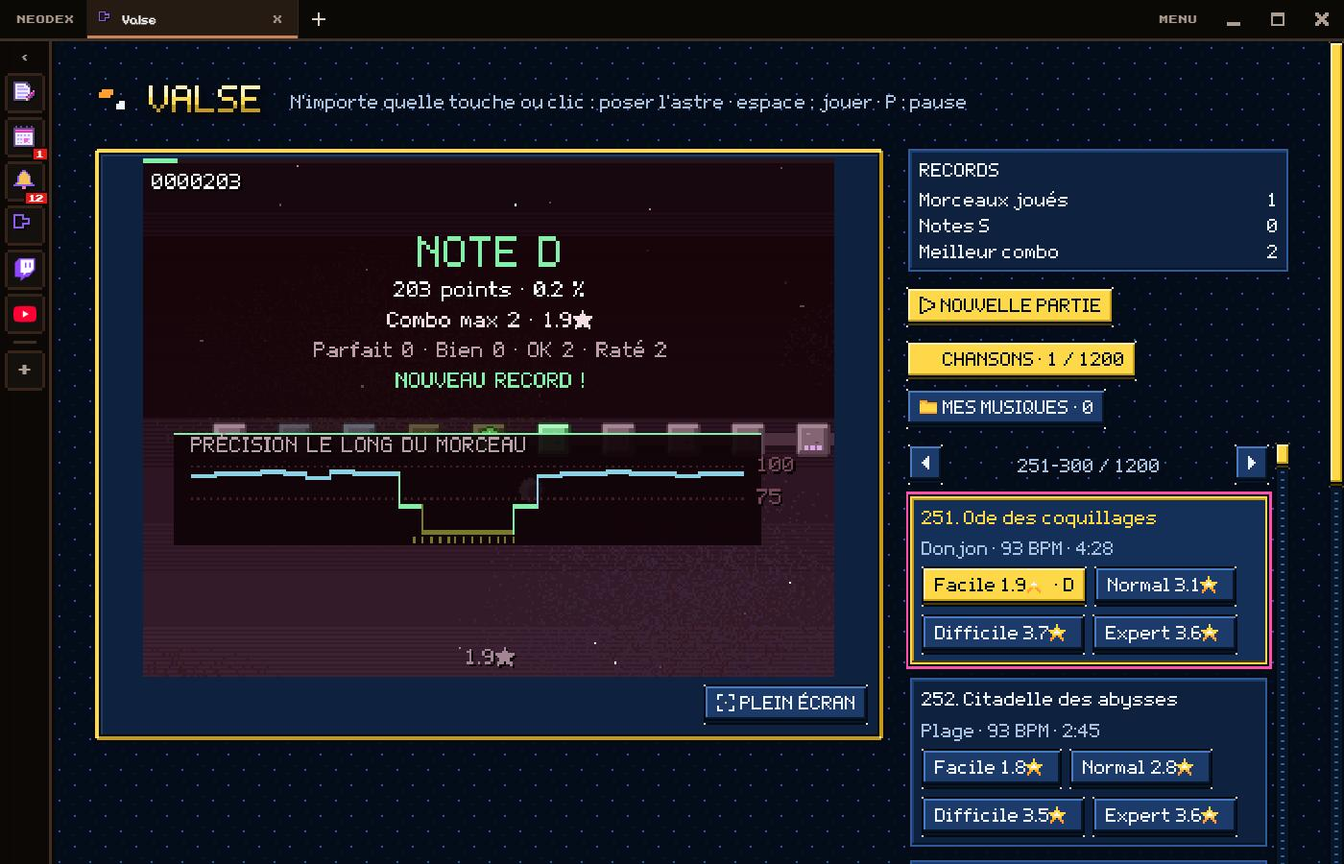
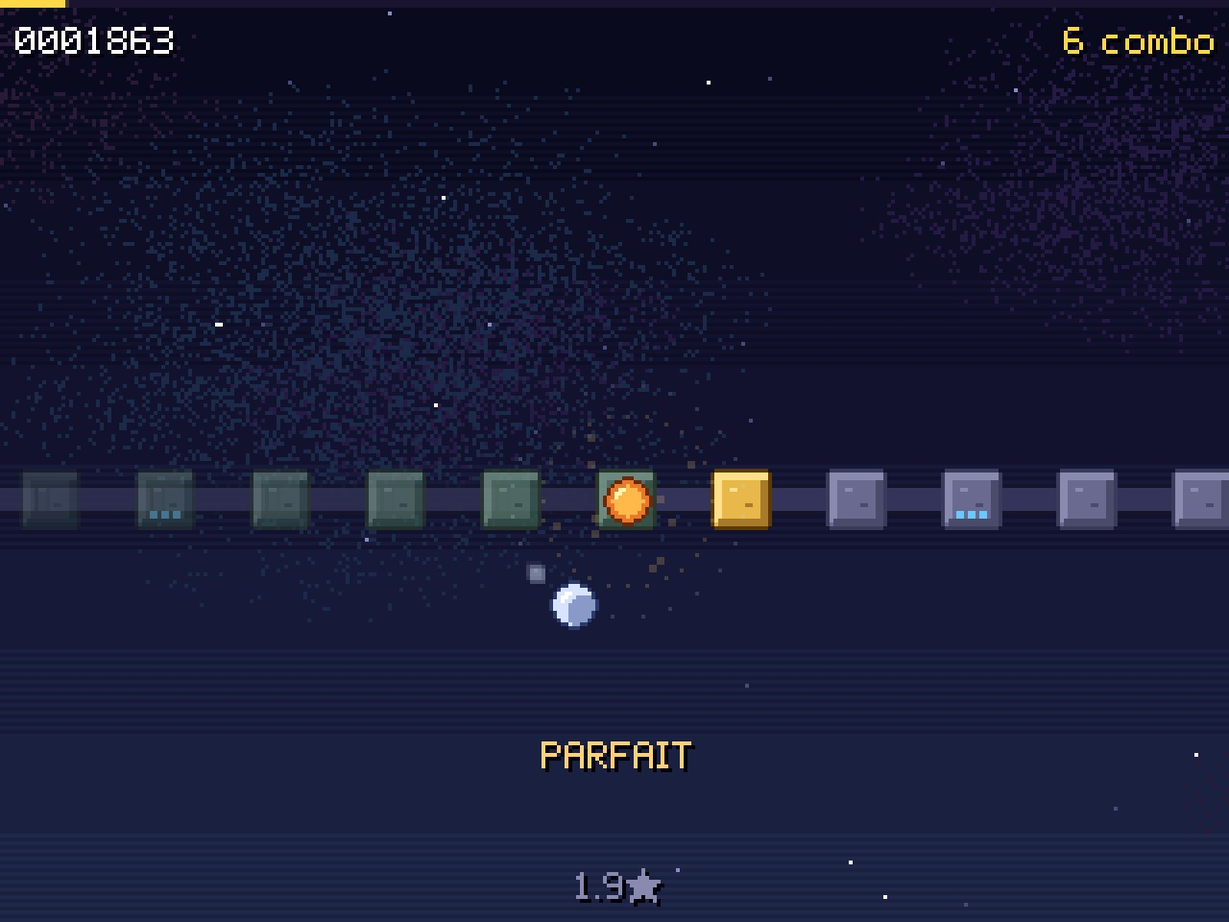
Version 2.0.0 : jugement strict (trop tôt ou trop tard, la partie est perdue), drapeaux de reprise toutes les 32 dalles, plus d’effets de caméra ni de ciel qui bouge

diff --git a/index.js b/index.js
@@ -9,7 +9,7 @@ const HTML = `<div class="appWrap wide">
       <div class="row"><button class="btn" id="rhTabSongs">CHANSONS</button><button class="btn" id="rhTabMine">MES MUSIQUES</button></div>
       <div class="sysCard rhImport" id="rhImport" style="display:none"><div class="row"><button class="btn main" id="rhFileBtn">IMPORTER UN FICHIER AUDIO</button><input type="file" id="rhFile" accept="audio/*,.mp3,.m4a,.ogg,.opus,.wav,.flac,.webm" hidden></div><div class="row"><select class="f" id="rhMuList"></select><button class="btn" id="rhMuBtn">CRÉER LE NIVEAU</button></div><div class="row"><label>Difficulté <select class="f" id="rhStars"><option value="1">1 ★</option><option value="2">2 ★</option><option value="3" selected>3 ★</option><option value="4">4 ★</option><option value="5">5 ★</option><option value="6">6 ★</option><option value="7">7 ★</option><option value="8">8 ★</option><option value="9">9 ★</option><option value="10">10 ★</option></select></label></div><span class="hint" id="rhImpMsg">Un fichier ou une musique de NeoMusic : le jeu trouve son tempo et ses temps forts et en fait un niveau.</span></div>
       <div id="rhSongs"></div>
-      <div class="sysCard rhOpts"><label>Volume <input type="range" id="rhVol" min="0" max="100" value="70"></label><label>Son des clics <select class="f gSel" id="rhClick"><option value="0" selected>Doux</option><option value="1">Clap</option><option value="2">Bois</option><option value="3">Grosse caisse</option><option value="4">Cristal</option><option value="5">Pop</option><option value="6">Charleston</option><option value="7">Caisse claire</option><option value="8">Pluck</option><option value="9">Tok</option><option value="-1">Aucun</option></select></label><label title="Zooms et rotations de la caméra pendant le morceau">Caméra <select class="f gSel" id="vaCamOn"><option value="1" selected>Effets</option><option value="0">Fixe</option></select></label><label title="Entraînement : commencer plus loin dans le morceau (sans record)">Départ <select class="f gSel" id="vaFrom"><option value="0" selected>Début</option><option value="0.25">25 %</option><option value="0.5">50 %</option><option value="0.75">75 %</option></select></label><label>Décalage <input type="number" class="f" id="rhOffset" min="-300" max="300" step="5" value="0" style="width:80px" title="Réglé tout seul après chaque partie"> ms</label></div>
+      <div class="sysCard rhOpts"><label>Volume <input type="range" id="rhVol" min="0" max="100" value="70"></label><label>Son des clics <select class="f gSel" id="rhClick"><option value="0" selected>Doux</option><option value="1">Clap</option><option value="2">Bois</option><option value="3">Grosse caisse</option><option value="4">Cristal</option><option value="5">Pop</option><option value="6">Charleston</option><option value="7">Caisse claire</option><option value="8">Pluck</option><option value="9">Tok</option><option value="-1">Aucun</option></select></label><label title="Entraînement : commencer plus loin dans le morceau (sans record)">Départ <select class="f gSel" id="vaFrom"><option value="0" selected>Début</option><option value="0.25">25 %</option><option value="0.5">50 %</option><option value="0.75">75 %</option></select></label><label>Décalage <input type="number" class="f" id="rhOffset" min="-300" max="300" step="5" value="0" style="width:80px" title="Réglé tout seul après chaque partie"> ms</label></div>
       <div class="hint">Le soleil et la lune tournent l'un autour de l'autre. Quand celui qui tourne touche la dalle suivante (la dorée), appuie sur n'importe quelle touche ou clique : il se pose, et c'est l'autre qui tourne.</div><div class="hint">Le chemin suit le rythme : une ligne droite (un demi-tour) dure un temps, un virage à angle droit (un quart de tour) un demi-temps, un virage serré encore moins. Trois points bleus sur une dalle : l'astre y tourne plus lentement ; une boucle rose : il change de sens.</div><div class="hint">La difficulté de chaque niveau est calculée sur ses notes (densité, passages chargés) : de 1★ à 10★.</div>
     </div></div>
 </div>`;
@@ -1058,13 +1058,13 @@ $('rhFs').onclick = () => { rhFull(!document.fullscreenElement); $('rhFs').blur(
 $('rhOffset').addEventListener('change', () => { rhOffMs = +$('rhOffset').value; });
 $('rhClick').onchange = () => { rhAudio(); rhCtx.resume(); rhClick(); };  // le son choisi, pour l'entendre
 $('rhVol').oninput = () => { if (rhOut) rhOut.gain.value = +$('rhVol').value / 100 * .6; };
-for (const id of ['rhVol', 'rhClick', 'rhOffset', 'vaCamOn', 'vaFrom']) $(id).addEventListener('change', () => { gstore('rhythmPrefs', {})[id] = $(id).value; saveGames(); });
+for (const id of ['rhVol', 'rhClick', 'rhOffset', 'vaFrom']) $(id).addEventListener('change', () => { gstore('rhythmPrefs', {})[id] = $(id).value; saveGames(); });
 setInterval(() => { if (rhCtx?.state === 'running' && (!view.classList.contains('on') || rh?.mode !== 'play')) rhCtx.suspend(); }, 200);  // la musique s'arrête avec la partie
 document.addEventListener('fullscreenchange', () => { if (!document.fullscreenElement) rhPause(); });  // Échap sort du plein écran : on met en pause
 $('gNew').onclick = () => { if (rh) rhSelect(rh.song, rh.diff); $('gNew').blur(); };
 function rhInfo() { const res = games.rhythm || {}, all = Object.values(res); showStats([['Morceaux joués', all.length], ['Notes S', all.filter(r => r.grade === 'S').length], ['Meilleur combo', all.reduce((m, r) => Math.max(m, r.combo || 0), 0)]]); }
 function rhOpen() {
-  const p = games.rhythmPrefs || {}; for (const id of ['rhVol', 'rhClick', 'rhOffset', 'vaCamOn', 'vaFrom']) if (p[id] != null) $(id).value = p[id];
+  const p = games.rhythmPrefs || {}; for (const id of ['rhVol', 'rhClick', 'rhOffset', 'vaFrom']) if (p[id] != null) $(id).value = p[id];
   rhOffMs = +$('rhOffset').value; rhInfo();
   if (rh) { rhList(); return gameLoop(rh, RHG.key, RHG.update, rhDrawAll); }
   const last = games.rhythmLast || {song: 0, diff: 'normal'}; rhSelect(last.song, last.diff).catch(() => rhSelect(0, 'normal'));
@@ -1074,7 +1074,7 @@ function rhOpen() {
    l'astre qui tourne se pose, l'autre se met à tourner. Le chemin est dessiné par la musique : un demi-tour = un temps, un quart de tour = un demi-temps. ---------- */
 const VA = {R: 30, SPIN: Math.PI, MIN: .25};  // SPIN : radians par temps ; MIN : écart minimum entre deux notes, en temps
 const RHG = {key: 'valse', factor: 1.15, color: '#ffd84a',
-  help: [['Une touche (ou un clic) quand l\'astre touche la dalle suivante', '#ffe8b0'], ['Demi-tour = un temps · quart de tour = un demi-temps', '#d8e0ff'], ['Le chemin suit la musique : regarde ses virages', '#d8e0ff']],
+  help: [['Une touche (ou un clic) quand l\'astre touche la dalle dorée', '#ffe8b0'], ['Demi-tour = un temps · quart de tour = un demi-temps', '#d8e0ff'], ['Trop tôt ou trop tard : perdu !', '#ff9aa8']],
   // une seule touche : les notes ensemble n'en font qu'une, les notes trop rapprochées (moins d'un quart de temps) sont retirées ;
   // puis le chemin : chaque dalle est là où l'astre qui tourne arrive au moment de la note
   chart(base, c) {
@@ -1083,12 +1083,12 @@ const RHG = {key: 'valse', factor: 1.15, color: '#ffd84a',
     vaPath(out, beat);
     return out;
   },
-  reset() { Object.assign(rh, {judge: null, cam: null, flash: [], trail: [], tap: -99, from: 0, pct: 0, camfx: vaVal('vaCamOn', '1') === '1' ? vaCamFx(rh.info, rh.c.len, (rh.c.step || .125) * 4) : null}); },
+  reset() { Object.assign(rh, {judge: null, cam: null, flash: [], trail: [], tap: -99, from: 0, pct: 0, cp: 0, last: -9, failed: '', failAt: 0}); },
   from: () => vaFrom(),
   over() { vaOver(); },
   update() {
     const now = rhNow();
-    for (const n of rh.notes) { if (n.judged) continue; if (n.t - now > .2) break; if (now - n.t > RH.WIN.at(-1)[0]) { rhMissed(n); vaFx(n, null); } }
+    for (const n of rh.notes) { if (n.judged) continue; if (n.t - now > .2) break; if (now - n.t > RH.WIN.at(-1)[0]) { vaFail(n, 'TROP TARD'); return; } }
     for (const s of rh.sparks) { s.x += s.vx; s.y += s.vy; s.vx *= .94; s.vy *= .94; s.life--; } rh.sparks = rh.sparks.filter(s => s.life > 0);
     for (const f of rh.fx) f.t++; rh.fx = rh.fx.filter(f => f.t < 24);
     if (rh.judge && --rh.judge.t <= 0) rh.judge = null;
@@ -1133,35 +1133,14 @@ function vaPos(t) {
   const n = N[i], ang = n.a + n.dir * n.w * (n.t - t);
   return {x: n.px, y: n.py, ox: n.px + Math.cos(ang) * VA.R, oy: n.py + Math.sin(ang) * VA.R, i};
 }
-/* ---------- 1.3.0 : effets de caméra, entraînement depuis n'importe quel passage, record « sans faute », la figure dessinée par le chemin ---------- */
+/* ---------- 1.3.0 : entraînement depuis n'importe quel passage, record « sans faute », la figure dessinée par le chemin ---------- */
 const vaVal = (id, d) => { const v = $(id)?.value; return v == null || v === '' ? d : v; };
-const VA_FX = ['', 'zoom', 'large', 'tourne', 'balance', 'pouls'];
-function vaCamFx(info, len, beat) {  // toutes les 8 mesures, un effet de caméra tiré d'après le morceau (le premier passage reste calme)
-  const sec = 32 * beat, r = seeded(info.name.length * 71 + Math.round(info.bpm * 3)), L = [''];
-  for (let k = 1; k * sec < len + sec; k++) { let e; do e = VA_FX[Math.floor(r() * VA_FX.length)]; while (e === L.at(-1)); L.push(e); }
-  return {sec, beat, L};
-}
-function vaCamAt(e, u, k, C) {  // -> [échelle, rotation] de l'effet e, u secondes après le début de son passage
-  if (e === 'zoom') return [1.35, 0];
-  if (e === 'large') return [.72, 0];
-  if (e === 'tourne') return [1, Math.min(1, u / C.sec) * .6 * (k % 2 ? 1 : -1)];
-  if (e === 'balance') return [1, Math.sin(u / C.beat * Math.PI / 2) * .12];
-  if (e === 'pouls') return [1 + .08 * Math.max(0, 1 - (u / C.beat % 1) * 4), 0];
-  return [1, 0];
-}
-function vaCam(now) {  // l'effet du moment, en fondu d'un temps depuis le précédent
-  const C = rh.camfx; if (!C || now <= 0) return [1, 0];
-  const k = Math.min(C.L.length - 1, Math.floor(now / C.sec)), u = now - k * C.sec, b = vaCamAt(C.L[k], u, k, C);
-  if (!k || u >= C.beat) return b;
-  const a = vaCamAt(C.L[k - 1], C.sec, k - 1, C), m = (x => x * x * (3 - 2 * x))(u / C.beat);
-  return [a[0] + (b[0] - a[0]) * m, a[1] + (b[1] - a[1]) * m];
-}
-{ const C = vaCamFx({name: 'essai', bpm: 120}, 120, .5); console.assert(C.L[0] === '' && C.L.length > 6 && C.L.every((e, i) => !i || e !== C.L[i - 1]), 'vaCamFx'); }
-function vaCamPush(now) { const [s, r] = vaCam(now); g.save(); if (s !== 1 || r) { g.translate(W / 2, H / 2 + 10); g.rotate(r); g.scale(s, s); g.translate(-W / 2, -(H / 2 + 10)); } }
 // l'entraînement : la partie commence un peu avant la dalle choisie ; les notes d'avant ne comptent pas, et rien n'est enregistré comme record
+let vaResume = null;  // {key, i} : reprendre au drapeau i après une partie perdue
 function vaFrom() {
-  const f = +vaVal('vaFrom', 0), N = rh.notes; if (!f || N.length < 8) return 0;
-  const i = Math.min(N.length - 1, Math.floor(N.length * f)), T = Math.max(0, N[i].t - 2);
+  const f = +vaVal('vaFrom', 0), N = rh.notes, R = vaResume?.key === rh.info.key ? vaResume.i : 0; vaResume = null;
+  if ((!f && !R) || N.length < 8) return 0;
+  const i = R || Math.min(N.length - 1, Math.floor(N.length * f)), T = Math.max(0, N[i].t - 2); rh.cp = i;
   for (let j = 0; j < i; j++) { N[j].judged = true; N[j].off = true; } rh.from = T; return T;
 }
 // le record « sans faute » : la part du morceau jouée avant le premier raté
@@ -1182,12 +1161,26 @@ function vaFx(n, w) {
   rh.fx.push({k: 'ring', x, y, col: w ? w[3] : '#ff4a5a', t: 0});
   if (w) for (let i = 0; i < 10; i++) { const a = Math.random() * Math.PI * 2, v = .6 + Math.random() * 1.6; rh.sparks.push({x, y, vx: Math.cos(a) * v, vy: Math.sin(a) * v, life: 20, col: w[3]}); }
 }
+// 2.0.0 : seule la prochaine dalle compte. Un appui trop tôt (dans le temps qui la précède) ou trop tard perd la partie : taper au hasard ne marche plus.
+// Deux touches presque ensemble (moins de 60 ms) ne comptent qu'une fois ; loin avant la dalle (plus d'un temps), l'appui est ignoré.
+const VA_CP = 32;  // un drapeau toutes les 32 dalles
 function vaHit(now = rhNow()) {
-  rh.tap = rh.tick; rhPlayKit(3, .4);
-  let near = null;
-  for (const n of rh.notes) { if (n.judged) continue; if (n.t - now > .2) break; if (Math.abs(n.t - now) <= RH.WIN.at(-1)[0] && (!near || Math.abs(n.t - now) < Math.abs(near.t - now))) near = n; }
-  if (!near) return;
-  const w = rhHit(near, now - near.t); near.w = w; vaFx(near, w);
+  if (rh.mode !== 'play' || now - rh.last < .06) return;
+  const n = rh.notes.find(x => !x.judged); if (!n) return;
+  const dt = now - n.t, beat = (rh.c?.step || .125) * 4; if (dt < -Math.max(.6, beat)) return;
+  rh.tap = rh.tick; rh.last = now; rhPlayKit(3, .4);
+  const w = rhWin(dt); if (!w) { vaFail(n, dt < 0 ? 'TROP TÔT' : 'TROP TARD'); return; }
+  rhHit(n, dt); n.w = w; vaFx(n, w);
+  const j = rh.notes.indexOf(n); if (j && j % VA_CP === 0) { rh.cp = j; rh.judge = {text: 'DRAPEAU !', col: '#7ee07a', t: 40}; }
+}
+function vaFail(n, why) {  // la partie est perdue : la musique s'arrête, on reprend au dernier drapeau
+  rhMissed(n); vaFx(n, null); rh.judge = null; rh.failed = why; rh.failAt = rh.tick; rh.mode = 'fail'; try { rh.src?.stop(); } catch {}
+  if (rh.info) { rh.failT = rhNow(); vaOver(); saveGames(); sfx('notify'); }
+}
+function vaRetry(cp) {  // Espace : au drapeau ; R : depuis le début
+  if (rh.tick - rh.failAt < 30) return;  // pas de reprise par accident en tapant encore
+  vaResume = cp && rh.cp ? {key: rh.info.key, i: rh.cp} : null;
+  rhSelect(rh.song, rh.diff).then(() => { if (rh?.mode === 'ready') rhBegin(); });
 }
 /* le dessin : ciel de nuit (étoiles en deux couches qui suivent la caméra de loin), le chemin de dalles, les deux astres */
 const VA_BG = cnv(W, H, b => {
@@ -1209,13 +1202,13 @@ function vaTile(kind) {  // une dalle de pierre : contour, dessus clair, bord so
   return VA_TILE[kind] = cnv(16, 16, b => { px(b, c[0], 1, 0, 14, 16); px(b, c[0], 0, 1, 16, 14); px(b, c[2], 1, 1, 14, 14); px(b, c[1], 1, 1, 14, 2); px(b, c[1], 1, 1, 2, 13); px(b, c[3], 2, 13, 13, 2); px(b, c[3], 13, 3, 2, 11); px(b, c[1], 5, 5, 2, 1); px(b, c[3], 9, 9, 2, 1); });
 }
 function vaDraw() {
-  const now = rhNow(), P = vaPos(rh.mode === 'ready' || rh.mode === 'load' ? (rh.notes[0]?.t ?? 0) - 60 + (rh.tick / 60) % 50 : now);  // avant la partie : l'astre tourne sur la première dalle
+  const now = rh.mode === 'fail' ? rh.failT : rhNow(), P = vaPos(rh.mode === 'ready' || rh.mode === 'load' ? (rh.notes[0]?.t ?? 0) - 60 + (rh.tick / 60) % 50 : now);  // avant la partie : l'astre tourne sur la première dalle
   rh.cam ??= {x: P.x, y: P.y}; rh.cam.x += (P.x - rh.cam.x) * .08; rh.cam.y += (P.y - rh.cam.y) * .08;
   const cx = Math.round(W / 2 - rh.cam.x), cy = Math.round(H / 2 + 10 - rh.cam.y);
   g.drawImage(VA_BG, 0, 0);
-  { const nx = Math.round((((-rh.cam.x * .08) % 640) + 640) % 640), ny = Math.round((((-rh.cam.y * .08) % 480) + 480) % 480); for (const ox of [nx - 640, nx]) for (const oy of [ny - 480, ny]) g.drawImage(VA_NEB, ox, oy); }
-  VA_STARS.forEach((L, k) => { const f = k ? .25 : .1; for (const [x, y, b] of L) { const sx = ((x - rh.cam.x * f) % 640 + 640) % 640 - 160, sy = ((y - rh.cam.y * f) % 480 + 480) % 480 - 120; if (sx < 0 || sx >= W || sy < 0 || sy >= H) continue; px(g, b > .85 ? '#ffffff' : k ? '#8a8ac8' : '#4a4a7a', sx, sy, k && b > .9 ? 2 : 1, 1); } });
-  vaCamPush(rh.mode === 'play' || rh.mode === 'pause' ? now : 0);
+  g.drawImage(VA_NEB, -160, -120);  // 2.0.0 : un ciel immobile, seul le chemin défile
+  VA_STARS.forEach((L, k) => { for (const [x, y, b] of L) { const sx = x - 160, sy = y - 120; if (sx < 0 || sx >= W || sy < 0 || sy >= H) continue; px(g, b > .85 ? '#ffffff' : k ? '#8a8ac8' : '#4a4a7a', sx, sy, k && b > .9 ? 2 : 1, 1); } });
+  g.save();
   // le chemin : un trait entre les dalles, puis les dalles (passées, à venir, la prochaine en or)
   const N = rh.notes, i0 = Math.max(0, P.i - 8), i1 = Math.min(N.length, P.i + 22);
   const tilePos = j => j < N.length ? [N[j].px + Math.cos(N[j].a) * VA.R, N[j].py + Math.sin(N[j].a) * VA.R] : null;
@@ -1227,6 +1220,7 @@ function vaDraw() {
     g.globalAlpha = fade; g.drawImage(vaTile(kind), cx + x - 8, cy + y - 8);
     const nx = N[j + 1]; if (nx?.twirl) for (let k = 0; k < 10; k++) px(g, '#ff8ad8', cx + x + Math.cos(k / 10 * Math.PI * 1.6 + 1) * 3.5 - .5, cy + y + Math.sin(k / 10 * Math.PI * 1.6 + 1) * 3.5 - .5, 1, 1);  // demi-tour : une boucle rose
     if (nx?.slow) for (let k = 0; k < 3; k++) px(g, '#6ac8ff', cx + x - 4 + k * 3, cy + y + 3, 2, 2);  // lent : trois points bleus
+    if (j && j % VA_CP === 0) { px(g, '#3a2a1a', cx + x - 1, cy + y - 14, 1, 12); px(g, j <= rh.cp ? '#7ee07a' : '#e8e8f0', cx + x, cy + y - 14, 6, 4); }  // un drapeau : la reprise après une partie perdue
     g.globalAlpha = 1;
   }
   // le cercle que suit l'astre, puis sa traînée, puis les deux astres (le soleil et la lune échangent leur rôle à chaque dalle)
@@ -1247,21 +1241,23 @@ function vaDraw() {
   }
   if (rh.mode === 'play' && now < 0) pxFont(g, String(Math.ceil(-now)), W / 2, 60, '#ffd84a', 16, 'center');
   rhScreens(60);
+  if (rh.mode === 'fail' && rh.tick - rh.failAt > 20) gameText(g, W, [['PERDU : ' + rh.failed + ' !', '#ff7a8a', 12], ['Arrivé à ' + rh.pct + ' % du morceau' + (rh.pctBest ? ' · record ' + rh.pctBest + ' %' : ''), '#ffffff'],
+    [rh.cp ? 'Espace : reprendre au drapeau (' + Math.floor(rh.cp / rh.notes.length * 100) + ' %)' : 'Espace : recommencer', '#ffd84a'], ...(rh.cp ? [['R : depuis le début', '#d8e0ff']] : [])], 80);
   if (rh.mode === 'over' && rh.tick - rh.overAt > 20) { vaFigure(); pxFont(g, (rh.from ? 'ENTRAÎNEMENT · ' : '') + 'SANS FAUTE ' + rh.pct + ' %' + (rh.pctBest ? ' · RECORD ' + rh.pctBest + ' %' : ''), W / 2, 190, '#c8d8ff', 6, 'center'); }
   if (rh.mode === 'ready' && +vaVal('vaFrom', 0)) pxFont(g, 'ENTRAÎNEMENT : DÉPART À ' + Math.round(+vaVal('vaFrom', 0) * 100) + ' %', W / 2, 200, '#6ac8ff', 7, 'center');
-  if (rh.tick % 15 === 0) cv.setAttribute('aria-label', 'Valse, ' + (rh.info?.name || '') + ' : ' + ({ready: 'prêt', load: 'chargement', play: 'en jeu', pause: 'pause', over: 'fini'}[rh.mode] || rh.mode) + ', score ' + rh.score + ', combo ' + rh.combo + ', ' +
+  if (rh.tick % 15 === 0) cv.setAttribute('aria-label', 'Valse, ' + (rh.info?.name || '') + ' : ' + ({ready: 'prêt', load: 'chargement', play: 'en jeu', pause: 'pause', over: 'fini', fail: 'perdu'}[rh.mode] || rh.mode) + ', score ' + rh.score + ', combo ' + rh.combo + ', ' +
     Object.entries(rh.counts).map(([k, v]) => k.toLowerCase() + ' ' + v).join(', ') + ', dalle ' + Math.min(P.i, N.length) + ' sur ' + N.length + '.');
 }
-cv.onpointerdown = e => { e.preventDefault(); if (!rh) return; if (rh.mode === 'play') vaHit(); else rhPress(); };
+cv.onpointerdown = e => { e.preventDefault(); if (!rh) return; if (rh.mode === 'play') vaHit(); else if (rh.mode === 'fail') vaRetry(true); else rhPress(); };
 document.addEventListener('keydown', e => {
   if (!keyOk(e) || !rh || e.ctrlKey || e.altKey || e.metaKey) return; const k = e.key.length === 1 ? e.key.toLowerCase() : e.key;
   if (k === 'p' || k === 'Escape') { rhPause(); return; }
+  if (rh.mode === 'fail') { if (k === ' ' || k === 'Enter' || k === 'r') { e.preventDefault(); if (!e.repeat) vaRetry(k !== 'r'); } return; }
   if (rh.mode === 'play') { if (k.length === 1 || k === 'Enter' || k.startsWith('Arrow')) { e.preventDefault(); if (!e.repeat) vaHit(); } return; }
   if (k === ' ' || k === 'Enter') { e.preventDefault(); if (!e.repeat) rhPress(); }
 });
 document.addEventListener('keyup', e => { if (e.key === ' ' && keyOk(e)) e.preventDefault(); });
-$('vaCamOn').addEventListener('change', () => { if (rh?.info) rh.camfx = vaVal('vaCamOn', '1') === '1' ? vaCamFx(rh.info, rh.c.len, (rh.c.step || .125) * 4) : null; });
-cv.__rh = {cam: t => vaCam(t), st: () => rh, finish: hist => { rh.hist = hist; rh.mode = 'play'; rhCheckEnd(1e9); }};  // pour le test « local »
+cv.__rh = {hit: t => vaHit(t), now: () => rhNow(), st: () => rh, finish: hist => { rh.hist = hist; rh.mode = 'play'; rhCheckEnd(1e9); }};  // pour le test « local »
 {  // la manette : la croix, A, B, X, Y et les gâchettes hautes frappent le temps, Start lance, Select met en pause
   const KEY = {14: 'd', 13: 'f', 12: 'j', 15: 'k', 2: 'd', 0: 'f', 3: 'j', 1: 'k', 4: 'd', 5: 'k', 9: ' ', 8: 'p'}, held = new Set();
   const send = (k, type) => document.dispatchEvent(new KeyboardEvent(type, {key: k, bubbles: true}));
@@ -1287,8 +1283,9 @@ cv.__rh = {cam: t => vaCam(t), st: () => rh, finish: hist => { rh.hist = hist; r
   const crowd = ts => { const ns = ts.map(t => ({t, lane: 0})); vaPath(ns, 1); const P = ns.map(n => [n.px, n.py]); let m = 1e9; for (let i = 0; i < P.length; i++) for (let j = i + 1; j < Math.min(P.length, i + 30); j++) m = Math.min(m, Math.hypot(P[i][0] - P[j][0], P[i][1] - P[j][1])); return m; };
   if (crowd(Array.from({length: 60}, (_, i) => i * .5)) < VA.R * .5 || crowd(Array.from({length: 60}, (_, i) => i * 2)) < VA.R * .9 || crowd(Array.from({length: 60}, (_, i) => Math.floor(i / 3) * 2 + (i % 3) * .5)) < VA.R * .5) bad.push('dalles qui se chevauchent');
   if (Math.abs(notes[2].py - notes[1].py) > 1e-6 || Math.abs(notes[2].px - notes[1].px - VA.R) > 1e-6) bad.push('demi-tour');
-  vaHit(.01); vaHit(1.08); vaHit(3); rh.notes[2].judged = rh.notes[2].missed = true;
-  if (rh.counts.PARFAIT !== 1 || rh.counts.BIEN !== 1 || rh.combo !== 2) bad.push('jugement ' + JSON.stringify(rh.counts));
+  rh.last = -9; rh.c = {step: .25}; vaHit(-5); vaHit(.01); vaHit(.03); vaHit(1.08);
+  if (rh.counts.PARFAIT !== 1 || rh.counts.BIEN !== 1 || rh.combo !== 2 || rh.mode !== 'play') bad.push('jugement ' + JSON.stringify(rh.counts));
+  vaHit(1.5); if (rh.mode !== 'fail' || rh.failed !== 'TROP TÔT' || !notes[2].missed) bad.push('trop tôt : ' + rh.mode);
   rh = keep;
   console.assert(!bad.length, 'valse', bad);
 }

diff --git a/test-neodex.js b/test-neodex.js
@@ -1,44 +1,46 @@
-// lancé par le test « local » de NeoDex : choisit un morceau intégré, lance la partie, tape quelques coups,
-// vérifie que la chanson avance et que les notes sont jugées, puis pause (avec NEO_SHOTS : garde des images du jeu)
+// lancé par le test « local » de NeoDex : choisit un morceau intégré, le joue juste (un robot tape pile sur chaque dalle), puis tape au hasard :
+// la partie doit être perdue (« trop tôt »), puis reprendre au drapeau ; écran de fin et entraînement (avec NEO_SHOTS : garde des images du jeu)
 module.exports = async ({ pj, sleep }) => {
   const key = k => pj(`document.dispatchEvent(new KeyboardEvent('keydown', {key: '${k}', bubbles: true})), 0`);
   const label = () => pj(`document.getElementById('gc').getAttribute('aria-label') || ''`);
+  const st = js => pj(`(() => { const T = document.getElementById('gc').__rh, rh = T.st(); return ${js}; })()`);
   const shot = async n => { if (!process.env.NEO_SHOTS) return; const d = await pj(`document.getElementById('gc').toDataURL()`); require('fs').writeFileSync(require('path').join(process.env.NEO_SHOTS, 'valse-' + n + '.png'), Buffer.from(d.split(',')[1], 'base64')); };
-  await pj(`document.querySelector('#rhSongs .rhSong .btn')?.click(), 0`); await sleep(1000);  // l'étiquette « prêt » du morceau d'avant doit d'abord disparaître
-  for (let i = 0; i < 40 && !/: prêt,/.test(await label()); i++) await sleep(500);
-  if (!/: prêt,/.test(await label())) throw new Error('le morceau devait se préparer : « ' + await label() + ' »');
-  await shot('0-pret');
+  const ready = async () => { await pj(`document.querySelector('#rhSongs .rhSong .btn')?.click(), 0`); await sleep(1000);  // l'étiquette « prêt » du morceau d'avant doit d'abord disparaître
+    for (let i = 0; i < 40 && !/: prêt,/.test(await label()); i++) await sleep(500);
+    if (!/: prêt,/.test(await label())) throw new Error('le morceau devait se préparer : « ' + await label() + ' »'); };
+  await ready(); await shot('0-pret');
   await pj(`window.__e = []; addEventListener('error', e => __e.push(e.message)); addEventListener('unhandledrejection', e => __e.push(String(e.reason?.message || e.reason))); 0`);
-  await key(' '); await sleep(6500);
-  const errs = await pj(`window.__e.join(' | ')`); if (errs) throw new Error('erreur : ' + errs);
-  const judged = l => { const m = /: en jeu, score (\d+), combo \d+, parfait (\d+), bien (\d+), ok (\d+), raté (\d+)/.exec(l); return m ? +m[2] + +m[3] + +m[4] + +m[5] : 0; };
-  for (let i = 0; i < 80 && judged(await label()) < 3; i++) { await key(i % 2 ? 'f' : 'j'); await sleep(300); }  // le morceau lent commence par une intro sans notes
+  // le robot : il tape quand l'horloge du jeu atteint la prochaine dalle
+  await pj(`(() => { window.__auto = true; const T = document.getElementById('gc').__rh; const id = setInterval(() => { if (!window.__auto) return clearInterval(id); const rh = T.st(), n = rh.mode === 'play' && rh.notes.find(x => !x.judged); if (n && T.now() >= n.t - .004) T.hit(); }, 4); return 0; })()`);
+  await key(' ');
+  for (let i = 0; i < 60 && (await st('rh.counts.PARFAIT + rh.counts.BIEN + rh.counts.OK')) < 6; i++) await sleep(300);  // le morceau peut commencer par une intro sans notes
   await shot('1-partie');
-  const l = await label(), m = /: en jeu, score (\d+), combo \d+, parfait (\d+), bien (\d+), ok (\d+), raté (\d+)/.exec(l);
-  if (!m || +m[2] + +m[3] + +m[4] + +m[5] < 3) throw new Error('la partie devait avancer et des notes être jugées : « ' + l + ' »');
-  // la manette : une fausse manette ; A puis la croix frappent le temps
+  const l = await label(), good = await st(`[rh.mode, rh.counts.PARFAIT + rh.counts.BIEN + rh.counts.OK, rh.counts['RATÉ']].join()`);
+  const errs = await pj(`window.__e.join(' | ')`); if (errs) throw new Error('erreur : ' + errs);
+  if (!/^play,([6-9]|\d\d+),0$/.test(good)) throw new Error('joué juste, la partie devait avancer sans raté : ' + good + ' · « ' + l + ' » · ' + await st(`[rh.failed, rh.notes.slice(0, 3).map(n => n.t.toFixed(3)), rh.dts, rh.failT].join(' ')`));
+  // taper au hasard (à la manette) perd la partie ; un drapeau inventé à la dalle 40 pour la reprise
+  await pj(`(window.__auto = false, 0)`); await st(`(rh.cp = Math.min(40, rh.notes.length - 1), 0)`);
   await pj(`(() => { window.__pad = {buttons: Array.from({length: 17}, () => ({pressed: false})), axes: [0, 0]}; navigator.getGamepads = () => [window.__pad]; return 0; })()`);
-  const pad = async (b, on) => { await pj(`(__pad.buttons[${b}].pressed = ${on}, 0)`); await sleep(120); };
-  const tap = () => pj(`document.getElementById('gc').__rh.st().tap`);
-  const t0 = await tap(); await pad(0, true); await pad(0, false); const t1 = await tap(); await sleep(150); await pad(12, true); await pad(12, false); const t2 = await tap();
-  if (!(t1 > t0 && t2 > t1)) throw new Error('la manette devait frapper le temps : ' + [t0, t1, t2]);
-  await key('p'); await sleep(400);
-  if (!/: pause,/.test(await label())) throw new Error('P devait mettre en pause : « ' + await label() + ' »');
+  for (let i = 0; i < 60 && (await st('rh.mode')) === 'play'; i++) { await pj(`(__pad.buttons[${i % 2 ? 0 : 12}].pressed = true, 0)`); await sleep(40); await pj(`(__pad.buttons[${i % 2 ? 0 : 12}].pressed = false, 0)`); await sleep(40); }
+  await sleep(400); const lost = await st(`[rh.mode, rh.failed].join()`);  // l'étiquette se met à jour 4 fois par seconde
+  if (!/^fail,TROP (TÔT|TARD)$/.test(lost) || !/: perdu,/.test(await label())) throw new Error('taper au hasard devait perdre la partie : ' + lost);
+  await sleep(800); await shot('2-perdu');
+  // Espace : la partie repart au drapeau (les 40 premières dalles ne comptent pas)
+  await key(' '); for (let i = 0; i < 40 && (await st('rh.mode')) !== 'play'; i++) await sleep(500);
+  const back = await st(`[rh.mode, rh.from > 0, rh.notes.filter(n => n.off).length === rh.cp, rh.cp].join()`);
+  await key('p'); await sleep(300);
+  if (!/^play,true,true,\d+$/.test(back)) throw new Error('reprise au drapeau : ' + back);
   // l'écran de fin et sa courbe de précision (une partie inventée : juste au début, des ratés au milieu)
-  await pj(`(() => { const T = document.getElementById('gc').__rh, rh = T.st(), L = rh.c.len, h = []; for (let i = 0; i < 200; i++) { const t = i / 200 * L, mid = t > L * .4 && t < L * .6; h.push([t, mid ? (i % 3 ? 1 : 0) : (i % 7 ? 3 : 2)]); } T.finish(h); return 0; })()`);
-  await sleep(1200); await shot('2-fin');
-  const end = await pj(`(() => { const rh = document.getElementById('gc').__rh.st(); return [rh.mode, rh.hist.length].join(','); })()`);
+  await st(`(() => { const L = rh.c.len, h = []; for (let i = 0; i < 200; i++) { const t = i / 200 * L, mid = t > L * .4 && t < L * .6; h.push([t, mid ? (i % 3 ? 1 : 0) : (i % 7 ? 3 : 2)]); } T.finish(h); return 0; })()`);
+  await sleep(1200); await shot('3-fin');
+  const end = await st(`[rh.mode, rh.hist.length].join()`);
   if (end !== 'over,200') throw new Error('écran de fin attendu : ' + end);
-  // 1.3.0 : les effets de caméra (un zoom ou une rotation quelque part), puis l'entraînement à 50 % : les notes d'avant ne comptent pas
-  const cam = await pj(`(() => { const T = document.getElementById('gc').__rh, L = T.st().c.len; for (let t = 1; t < L; t += .5) { const [s, r] = T.cam(t); if (s !== 1 || r) return true; } return false; })()`);
-  if (!cam) throw new Error('aucun effet de caméra');
+  // l'entraînement à 50 % : les notes d'avant ne comptent pas
   await pj(`(() => { const s = document.getElementById('vaFrom'); s.value = '0.5'; s.dispatchEvent(new Event('change')); return 0; })()`);
-  await pj(`document.querySelector('#rhSongs .rhSong .btn')?.click(), 0`); await sleep(1000);
-  for (let i = 0; i < 40 && !/: prêt,/.test(await label()); i++) await sleep(500);
-  await key(' '); await sleep(2500);
-  const fr = await pj(`(() => { const rh = document.getElementById('gc').__rh.st(), off = rh.notes.filter(n => n.off).length; return [rh.from > 0, off > 0 && off < rh.notes.length, rh.notes.filter(n => !n.off && n.t < rh.from).length].join(); })()`);
+  await ready(); await key(' '); await sleep(2500);
+  const fr = await st(`[rh.from > 0, rh.notes.filter(n => n.off).length > 0 && rh.notes.filter(n => n.off).length < rh.notes.length, rh.notes.filter(n => !n.off && n.t < rh.from).length].join()`);
   await pj(`(() => { const s = document.getElementById('vaFrom'); s.value = '0'; s.dispatchEvent(new Event('change')); return 0; })()`); await key('p');
   if (fr !== 'true,true,0') throw new Error('entraînement à 50 % : ' + fr);
-  await shot('3-entrainement');
-  return l + ' · caméra et entraînement ok';
+  await shot('4-entrainement');
+  return l + ' · au hasard : ' + lost + ' · reprise au drapeau ok · entraînement ok';
 };

diff --git a/README.md b/README.md
@@ -6,11 +6,13 @@ Un jeu de rythme à une seule touche, dans le ciel de nuit : le soleil et la lun
 
 ## Comment jouer
 
-- **N'importe quelle touche** (lettres, flèches, Entrée) ou un **clic** : poser l'astre sur la dalle dorée.
+- **N'importe quelle touche** (lettres, flèches, Entrée) ou un **clic** : poser l'astre sur la dalle dorée, pile au moment où il la touche.
 - **Lire le chemin** : l'astre tourne d'un demi-tour par temps. Une **ligne droite** dure donc un temps, un **virage à angle droit** un demi-temps, un **virage serré** un quart de temps.
 - **Trois points bleus** sur une dalle : l'astre y tourne plus lentement (une longue pause dans la musique).
 - **Une boucle rose** : l'astre change de sens de rotation.
-- Une dalle ratée devient rouge, mais la partie continue : l'astre suit toujours la musique.
+- **Trop tôt ou trop tard, c'est perdu** : seule la prochaine dalle compte, et un appui en trop pendant le temps qui la précède perd la partie. Taper au hasard ne marche donc pas. Deux touches presque ensemble (moins de 60 ms) ne comptent qu'une fois.
+- **Drapeaux** : toutes les 32 dalles. Après une partie perdue, **Espace** reprend au dernier drapeau passé (sans record), **R** recommence depuis le début.
+- La caméra suit l'astre, le ciel ne bouge pas : rien ne gêne la lecture du chemin.
 - **Espace** : jouer · **P** : pause · **Plein écran** pendant la partie.
 
 ## Précision et points
@@ -27,11 +29,10 @@ L'onglet **Chansons** reprend les 1200 morceaux de Rythme, en quatre difficulté
 
 Dans **Mes musiques**, crée un niveau à partir d'un **fichier audio** importé ou d'une musique de ta bibliothèque **NeoMusic** : le jeu trouve son tempo et ses temps forts et en fait un niveau, à la **difficulté** choisie (1 à 10 étoiles).
 
-## Caméra, entraînement et figure
+## Entraînement et figure
 
-- **Caméra** (réglage, Effets par défaut) : toutes les 8 mesures, la caméra zoome, recule, tourne doucement, se balance ou pulse sur le temps. **Fixe** l'arrête.
 - **Départ** (entraînement) : commence à 25, 50 ou 75 % du morceau pour travailler un passage. Les notes d'avant ne comptent pas, et rien n'est gardé comme record.
-- **Sans faute** : l'écran de fin donne la part du morceau jouée avant ton premier raté, et ton record sur ce niveau.
+- **Avancée** : quand tu perds, l'écran donne la part du morceau atteinte, et ton record sur ce niveau.
 - L'écran de fin montre aussi **la figure dessinée par tout le chemin**, dalles réussies en vert et ratées en rouge.
 
 ## Réglages
@@ -49,6 +50,12 @@ Tes scores et notes par niveau et tes réglages sont enregistrés par NeoDex, sa
 Dans NeoDex : **NeoStore → À découvrir → Valse → Installer**.
 
 Développer un plugin : voir le [SDK NeoDex](https://github.com/NDesumeur/neodex-sdk).
+
+## Nouveautés de la version 2.0.0
+
+- Le jeu est refait autour d'un jugement strict : trop tôt ou trop tard, la partie est perdue (avant, on pouvait taper au hasard et finir quand même).
+- Drapeaux de reprise toutes les 32 dalles.
+- Plus d'effets de caméra (zooms, rotations) ni de ciel qui défile : seul le chemin bouge.
 
 ## Nouveautés de la version 1.1.0
 

diff --git a/README.en.md b/README.en.md
@@ -6,11 +6,13 @@ A one-key rhythm game in the night sky: the sun and the moon spin around each ot
 
 ## How to play
 
-- **Any key** (letters, arrows, Enter) or a **click**: land the orb on the golden tile.
+- **Any key** (letters, arrows, Enter) or a **click**: land the orb on the golden tile, right when it touches it.
 - **Reading the path**: the orb spins half a turn per beat. A **straight line** lasts one beat, a **right angle** half a beat, a **sharp turn** a quarter of a beat.
 - **Three blue dots** on a tile: the orb spins slower there (a long pause in the music).
 - **A pink loop**: the orb changes its spinning direction.
-- A missed tile turns red, but the game goes on: the orb always follows the music.
+- **Too early or too late and you lose**: only the next tile counts, and an extra press in the beat before it loses the run. Tapping at random doesn't work. Two keys pressed almost together (under 60 ms) only count once.
+- **Flags**: every 32 tiles. After a lost run, **Space** restarts from the last flag passed (no record), **R** starts again from the beginning.
+- The camera follows the orb and the sky stays still: nothing gets in the way of reading the path.
 - **Space**: play · **P**: pause · **Full screen** during the game.
 
 ## Accuracy and points
@@ -27,11 +29,10 @@ The **Songs** tab has the 1200 Rythme tracks, in four difficulties (Easy, Normal
 
 In **My music**, create a level from an imported **audio file** or a track from your **NeoMusic** library: the game finds its tempo and strong beats and turns them into a level, at the chosen **difficulty** (1 to 10 stars).
 
-## Camera, practice and figure
+## Practice and figure
 
-- **Camera** (setting, Effects by default): every 8 bars, the camera zooms in, pulls back, slowly turns, sways or pulses on the beat. **Fixed** turns it off.
 - **Start** (practice): begin at 25, 50 or 75 % of the song to work on a passage. Earlier notes don't count, and nothing is kept as a record.
-- **Flawless**: the end screen gives the share of the song played before your first miss, and your record on this level.
+- **Progress**: when you lose, the screen gives the share of the song you reached, and your record on this level.
 - The end screen also shows **the figure drawn by the whole path**, cleared tiles in green and missed ones in red.
 
 ## Settings
@@ -49,6 +50,12 @@ Your scores and grades per level and your settings are stored by NeoDex, backed 
 In NeoDex: **NeoStore → Discover → Waltz → Install**.
 
 Building a plugin: see the [NeoDex SDK](https://github.com/NDesumeur/neodex-sdk).
+
+## What's new in version 2.0.0
+
+- The game is rebuilt around strict judging: too early or too late and the run is lost (before, you could tap at random and still finish).
+- Checkpoint flags every 32 tiles.
+- No more camera effects (zooms, rotations) or scrolling sky: only the path moves.
 
 ## What's new in version 1.1.0
 
